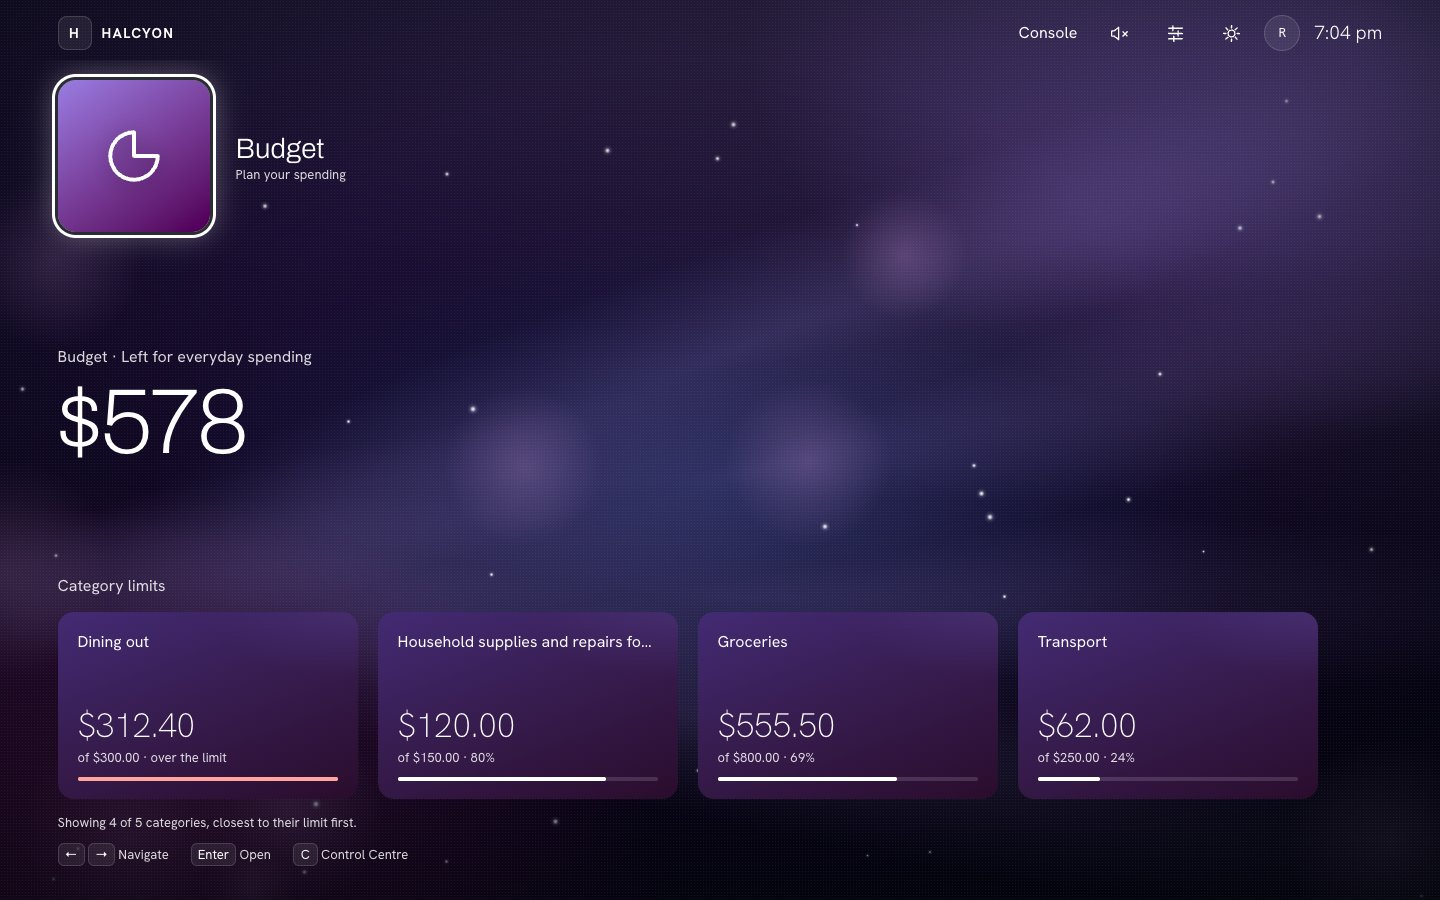
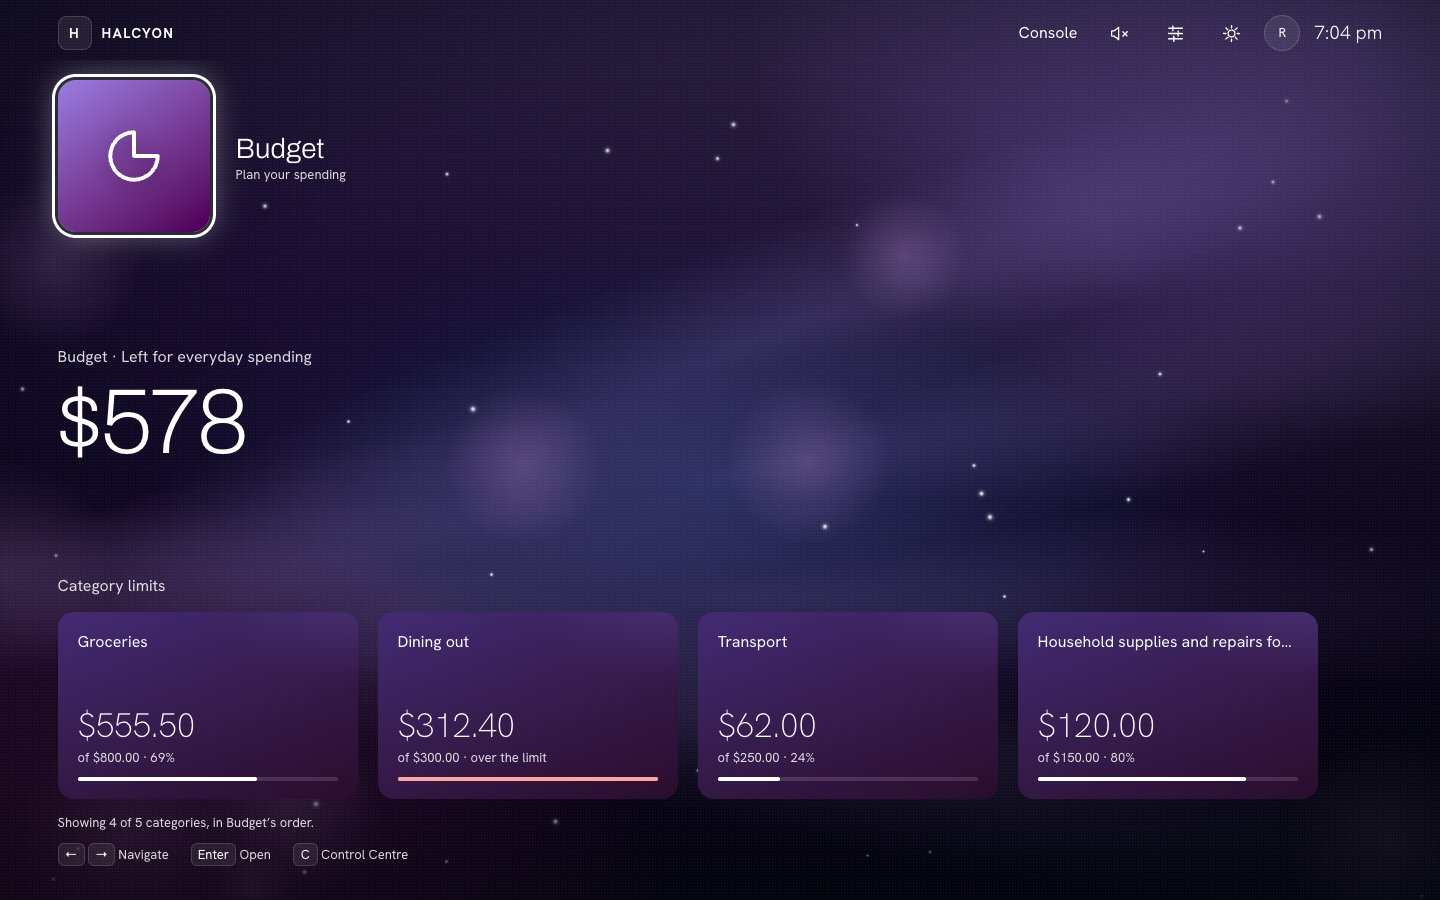
Record the Budget card order decision and retake its captures

diff --git a/docs/design/console-phase-6a-review.md b/docs/design/console-phase-6a-review.md
@@ -5,6 +5,7 @@
 | Branch | `codex/console-phase-6a` |
 | Application commit | `b4d2655858e03b967917b94e4494b8988e810f85` |
 | Test commit | `39c0c9c52331a3c904860aef1575e45925903d89` |
+| Budget order change | `62f5793f427e8c81d1ed9cab2c9d4dc16852c9de` |
 | Main base | `9152de5`, the PR #13 merge |
 | Worktree | `/Users/joel/Developer/fin-app` |
 | Signed-in entry | [http://127.0.0.1:5320/dashboard](http://127.0.0.1:5320/dashboard) |
@@ -22,7 +23,7 @@ The 5320 listener served Vite from this worktree's `app/` directory. Before each
 
 | Area | Behaviour | Source |
 | --- | --- | --- |
-| Budget preview | The spacer is replaced by up to four category-limit cards. Each card shows the amount spent of the amount allocated, in exact cents, with a bar. The categories closest to their limit come first. If there are more than four, a line says how many are shown. | `HomeCards.tsx`, `lib/consoleHome.ts` |
+| Budget preview | The spacer is replaced by up to four category-limit cards. Each card shows the amount spent of the amount allocated, in exact cents, with a bar. Cards follow Budget's own category order, the same as its table. If there are more than four, a line says how many are shown. | `HomeCards.tsx`, `lib/consoleHome.ts` |
 | Budget data | Home reads the workspace the Budget session has already loaded. Home never starts a Budget read. If this session hasn't opened Budget, the preview says so. The cold, loading, failed, no-plan, unsupported-method, other-period, no-limits, unavailable-details and refreshing states each have their own text. A missing usage figure reads **Unavailable**, has no bar and is never shown as `$0.00`. | `budgetHomeCards()` |
 | Expenses preview | A **Top categories** card leads the activity row. It shows the three largest categories, with each one's amount and share of gross outflow. It uses the category facets in Home's existing cash-flow report, summed and ranked the same way as the Expenses hub. Selecting it opens the hub for the same 30-day window. | `topExpenseCategories()` |
 | Overview ring | Settings can point the ring at one active planning goal. The choice is stored on the device as a Console preference. Progress uses the Strategic projections current value. The ring falls back to the net worth trend when no goal is chosen or the chosen one can't be measured. Planning goals are read only after a goal is chosen. The Overview hub keeps the trend art. | `goalRing()`, `ConsolePreferences.tsx` |
@@ -33,7 +34,7 @@ No new write path, migration or Edge Function is involved. Money goes through `f
 ## Decisions for the owner
 
 1. **How to choose the ring's goal (open decision 3). Approved as built on 27 November 2026.** Nothing in Halcyon could nominate a goal, and Phase 6 allows no new write path. The ring therefore uses a per-device Console preference with **Net worth trend** as the default. Syncing the choice across devices would need a new write path and a fresh decision.
-2. **Budget card order.** Cards are ranked by share spent, so the most pressing limits come first. Budget's own order would match the hub's table instead.
+2. **Budget card order. Settled on 27 November 2026: Budget's own order.** The gate build ranked cards by share spent. The owner chose Budget's order, so the cards match the hub's table. The `Showing 4 of 5` line now ends **in Budget’s order**, and the Budget card captures were retaken.
 3. **Merging during observation.** If you approve, the merge goes in the [observation log](console-rollout.md#default-switch-observation) so that a regression can be traced to this batch.
 
 ## Captures
@@ -66,12 +67,13 @@ The cold Budget state appears once per project, because loading Budget for the n
 | `npm run build` | Pass, with the existing chunk-size advisory |
 | Console Playwright suite, Desktop and Phone, against the verified 5320 listener | 130 passed, 10 skipped by project or capture-only conditions, 0 failed |
 | `console-phase-six.spec.ts` after adding the redaction regression | 16 passed (8 Desktop, 8 Phone) |
+| After the Budget order change (`CI=1`, the suite's own listener): types, unused declarations, budget configs, browser types, `npm test` (742), build, and `console-phase-six.spec.ts` | All pass, 16 passed |
 | WebKit | **Not run locally.** Only Chromium is installed, and I didn't download WebKit. The WebKit project now includes `console-phase-six.spec.ts`. CI run [45810991346](https://github.com/jdomingo117/fin-app/actions/runs/45810991346) on `563923b` passed all eight 6A regressions in WebKit; the capture-only test is skipped there by design. |
 
 The new regressions cover the following:
 
 - **Cold Budget preview.** It sends no `query-budget` request and shows its cold text.
-- **Ranked limits.** The four limits appear in order, in exact cents, with bar widths and the "4 of 5" line.
+- **Budget order.** The first four limits appear in Budget's own order, in exact cents, with bar widths and the "4 of 5" line.
 - **Missing data.** Missing usage shows no `$0.00` and no bar. A plan without category limits shows its own text.
 - **Expenses reconciliation.** The Expenses shares (Housing $1,635.00 · 52%, Transport $620.00 · 20%, Groceries $555.00 · 18%) are checked against the hub's $3,140 gross outflow and its category flow totals.
 - **Goal ring.** The ring tracks the goal (58%, `58 100` dash) and keeps it after a reload. It returns to the trend, and makes no planning read before a goal is chosen. The Overview hub keeps the trend. A goal that's gone falls back to the trend, with an explanation in Settings.
@@ -124,5 +126,5 @@ For the baseline, run the same command from a `9152de5` worktree with `CONSOLE_R
 
 **Stopped for owner review.** 6A isn't merged, and 6B hasn't started. To finish the gate:
 
-- decisions 2 and 3 above (decision 1 is approved);
+- decision 3 above (decisions 1 and 2 are settled);
 - a 60 Hz trace rerun, if you want the Phase 5 comparison on the same display mode.

diff --git a/docs/design/console-phase-6-plan.md b/docs/design/console-phase-6-plan.md
@@ -40,7 +40,7 @@ Uses existing data only. Start here.
 
 Built on `codex/console-phase-6a` and stopped at its gate on 26 November 2026. See the [6A review](console-phase-6a-review.md). It isn't merged.
 
-- **Budget cards.** The spacer is gone. Budget's Home preview reads the Budget session's loaded workspace. If this session hasn't opened Budget, it says so and sends no request. Each card shows a category limit as the amount spent of the amount allocated, in exact cents, with a bar. The categories closest to their limit come first, and Budget's own order breaks ties. When there are more than four, a line says how many are shown. The cold, loading, failed, no-plan, unsupported-method, other-period, no-limits, unavailable-details and refreshing states each have their own text. A category without recorded spending says **Unavailable** and has no bar. Spending over the limit fills the bar, uses the negative colour and says **over the limit** in text. Redaction hides the amounts and the bars.
+- **Budget cards.** The spacer is gone. Budget's Home preview reads the Budget session's loaded workspace. If this session hasn't opened Budget, it says so and sends no request. Each card shows a category limit as the amount spent of the amount allocated, in exact cents, with a bar. *The owner chose Budget's own order on 27 November 2026*, so the cards follow the hub's category table. When there are more than four, a line says how many are shown. The cold, loading, failed, no-plan, unsupported-method, other-period, no-limits, unavailable-details and refreshing states each have their own text. A category without recorded spending says **Unavailable** and has no bar. Spending over the limit fills the bar, uses the negative colour and says **over the limit** in text. Redaction hides the amounts and the bars.
 - **Expenses shares.** One **Top categories** card leads the activity row. It shows the three largest categories, with each one's amount and its share of gross outflow. The figures come from the category facets in Home's existing cash-flow report. Home sums and ranks them the same way as the Expenses hub, using the hub's gross outflow as the denominator. A regression checks that the figures match the hub. The card opens the Expenses hub for the same 30-day window.
 - **Overview ring.** *Open decision 3, approved by the owner as built on 27 November 2026:* nothing in Halcyon could nominate a goal, and the plan allows no new write path. So the owner chooses the goal in **Settings › Appearance › Overview ring**, which is stored on the device with the other Console preferences. The default is **Net worth trend**. Only active goals can be chosen. Progress uses the same current value as Strategic projections: the balances of the goal's accounts for its metric, as a share of the target from 0 to 100%. If the goal is missing or no longer active, has no positive target, or has an account missing from the directory, the ring shows the trend instead. Home reads planning goals only after a goal has been chosen. The Overview hub keeps the trend art.
 - **Key hints.** The strip reads **← → Navigate · Enter Open · C Control Centre** and appears only with a fine pointer. When the C shortcut is off in Settings, the last item reads **Control Centre shortcut off**.

diff --git a/CURRENT_STATUS.md b/CURRENT_STATUS.md
@@ -41,8 +41,8 @@ Classic removal needs separate owner approval after the window.
   card, an optional goal for the Overview ring and Home key hints. It uses
   existing reads only. See the [6A review](docs/design/console-phase-6a-review.md).
   On 27 November 2026 the owner approved the ring's goal as a per-device
-  Settings choice. Still open: the Budget card order and whether the batch
-  merges during observation. A merge is added to the observation log.
+  Settings choice and chose Budget's own order for the Home cards. Still
+  open: whether the batch merges during observation. A merge is added to the observation log.
 - **Batch 6B** (Control Centre notices) starts after the 6A decision.
 - **Batch 6C** (Money and Plan rows) waits on the owner's open decisions.
 
